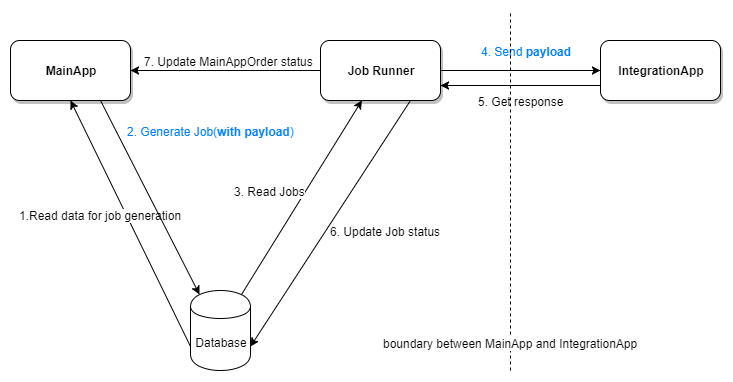
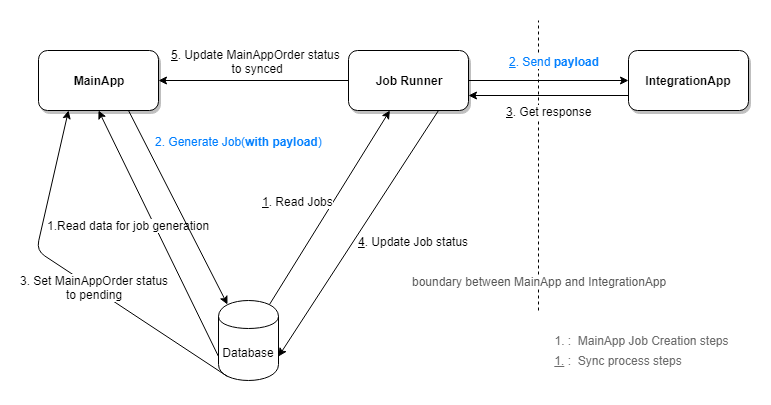
update

diff --git a/_posts/2018-11-08-defer-decision-if-possible.md b/_posts/2018-11-08-defer-decision-if-possible.md
@@ -1,5 +1,5 @@
 ---
-title: Thinking about Defer decision 
+title: Thinking about "Defer decision"  
 category: development  
 tags: [architecture, software development]  
 layout: post  
@@ -7,7 +7,7 @@ lang: en
 
 ---
 
-In Uncle Bob's book <<Clean Architecture>>, he mentioned:
+In Uncle Bob's book &lt;&lt; Clean Architecture &gt;&gt;, he mentioned:
 
 > A good architecture allows you to defer critical decisions, it doesn’t force you to defer them.
 
@@ -35,9 +35,11 @@ The IntegrationApp api only only supports single order sync, if the user tries t
 
 Then, there is a separate **Job Runner** to execute the jobs and sync to data to IntegrationApp. The workflow looks like:
 
-![image](/assets/images/jobqueue.png)
+![image](/assets/images/jobqueue.png) 
 
-The **Job Runner** will run every n minutes to sync the data to IntegrationApp. For convenience,the payload we stored in the Job is in the format of the request body that send to IntegrationApp. There are actually 3 applciations in the system now: **MainApp**, **Job Runner**, **IntegrationApp**.
+[Note:] In the diagram, all the sync steps happen after the Job Creation steps finished.
+
+The **Job Runner** will run every `n` minutes to sync the data to IntegrationApp. For convenience,the payload we stored in the Job is in the format of the request body that send to IntegrationApp. There are actually 3 applciations in the system now: **MainApp**, **Job Runner**, **IntegrationApp**.
 
 The benefit by storing the payload in database is that we can check the payload send to IntegrationApp api easily. But at the meantime, it brings us some troubles, one of which is that We need to maintain the payload stored in the job. For example, when IntegrationApp api payload changed, and if there are still some jobs with the old payload not executed yet we have to think about how to handle them.
 
@@ -54,3 +56,38 @@ Some people may ask, "what if the **metadata** need to be changed?" The **metada
 ## Wrap up
 
 We discussed a scenario in which the "Defer Decision" strategy is a more suitable choice. In most cases, it makes sense to not rely on the data which are likely to change often, otherwise we will spend more effort to handle with the "temp data" which generated in the process.
+
+
+---
+
+## Follow up
+
+### Another supporter
+Days later, when I work on a story related to the above process, I found that there is an IntegrationApp api call when generating the Job and payload. The reason is that some data required in the payload are not in MainApp system.
+
+So the work flow becomes:
+
+
+![image](/assets/images/jobqueue3.png)
+
+From the diagram, we can see that there is a dependency during the Job creation process. If the api call failed, the job won't be created.   
+
+The diagram here is a simple version of the real application, actually the Job creation process is within `MainAppOrder Approval` process, which means that the `MainAppOrder Approval` process will fail if the Job creation failed.   
+
+This is not a necessary restriction. If we only store the metadata in Job, and generate the payload just before sending it to IntegrationApp, the MainApp users can still approve orders successfully. The Job Runner will take care the payload generation and retry logic if any failure happened. 
+
+### Some discussion
+
+I had a deep discussion with my colleague about deferring the payload generation. The key points are:
+
+1. Job Runner can be a generic service, which should not care about the payload generation.
+2. Generating and keeping payload in Job table is more convenient for supporting. 
+3. Maintaining the metadata also needs effort.
+
+For **2**, after payload after generation, we can still store it in Job table for auditing or supporting. So there are two columns in Job table: column `Metadata` and column `Payload`, and the `Payload` columns is only set during the sync process.
+
+For **1**, I agree that some Job Runner can be independent, like sending email. But some Job Runners have some other operations after Job executed(like Step <span style="text-decoration-line: underline;">**5**</span> to update MainAppOrder status). In this case, the dependency is necessary. 
+
+For **3**, this is the main point discussed in this blog. Generally speaking, the metadata is more stable than the payload generated with it. We defer the decision to gain more flexibility and save effort.
+
+All in all, there is no best, only better. The important thing is to choose the one fit.
